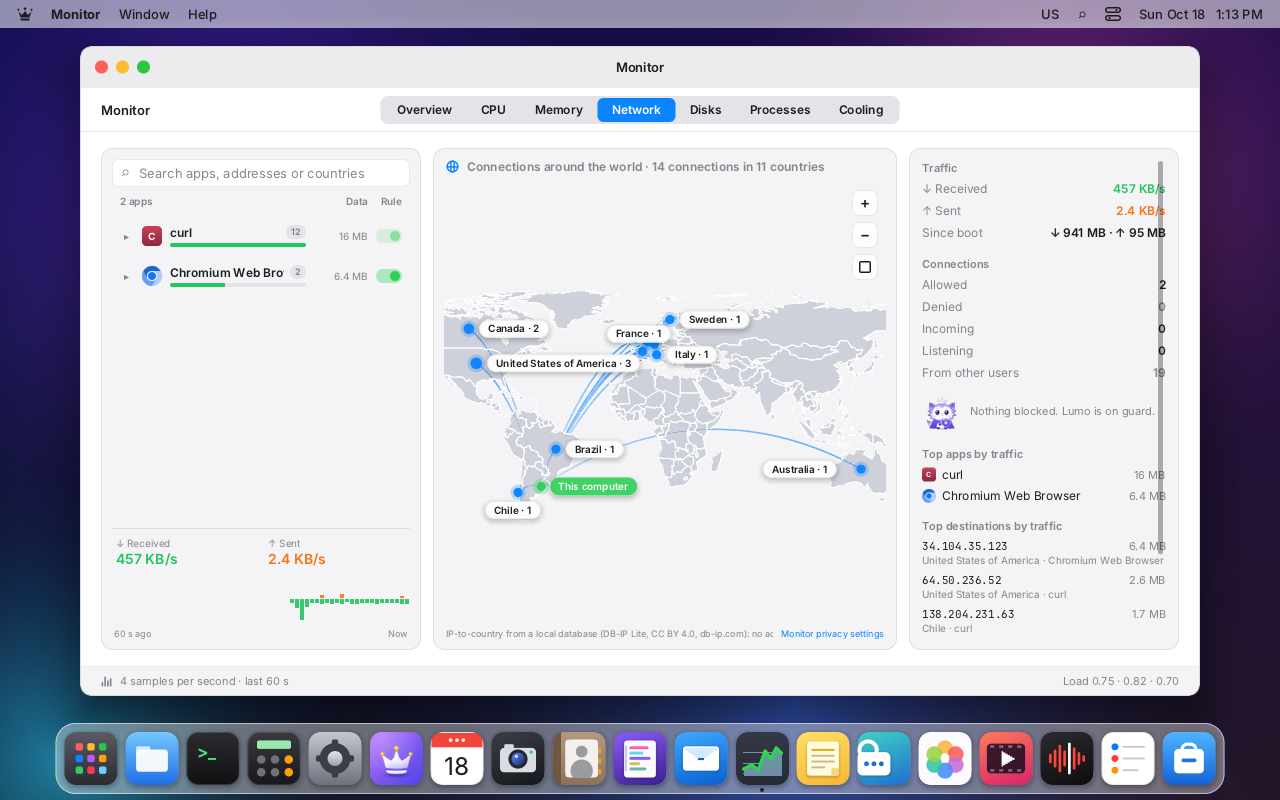
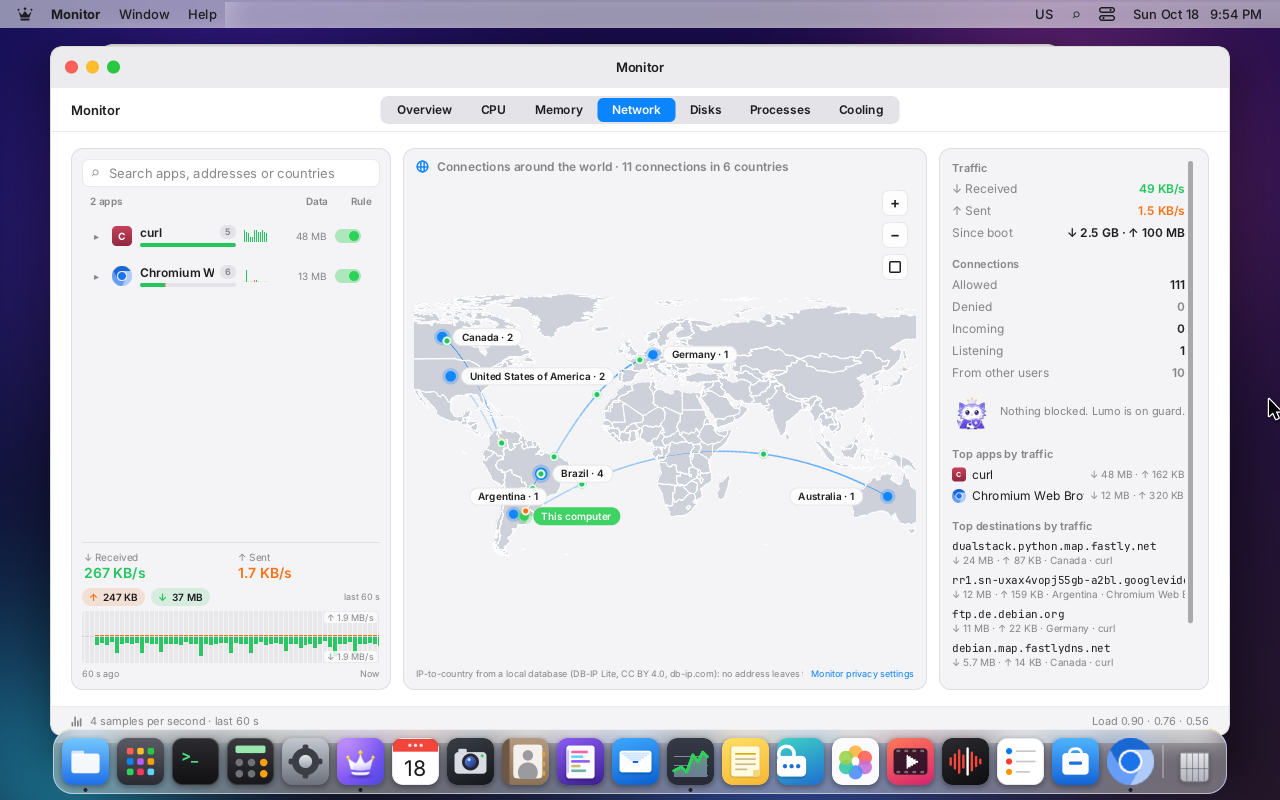
Docs: Monitor network traffic accounting, chart and map, with measurements and screenshots

diff --git a/docs/MONITOR.md b/docs/MONITOR.md
@@ -28,11 +28,19 @@ itself.
 
 - **Left:** search (by app, address or country) and one row per app with its icon, number of
   connections, a traffic bar (received in green, sent in orange, relative to the app that moved
-  the most), the bytes and the **Rule** column: a per-app allow/deny switch that `lord-netperm`
+  the most), a tiny live activity indicator (its traffic over the last 12 s, one bar per second),
+  the bytes and the **Rule** column: a per-app allow/deny switch that `lord-netperm`
   enforces in the kernel (see "Phase 2"). Each app expands to show its destinations (IP and country,
   plus the ones the firewall reported recently: "recent connection" or "recently denied"); a click
-  on one selects it in the right panel. At the bottom,
-  the current download and upload speed and per-second bars for the last 60 s.
+  on one selects it in the right panel. At the bottom, the machine's traffic:
+  - the current download and upload speed;
+  - two pills with what was sent (↑, orange) and received (↓, green) in the visible minute;
+  - a **mirrored chart** of the last 60 s (`TrafficChart.jsx`, `drawMirror` in `draw.js`): one bar
+    per second, sent above the baseline and received below, every bar on a faint full-height track
+    so the strip reads as one continuous chart even when idle; the newest second grows in from the
+    right edge while the rest slides left, redrawn at the 4 samples per second with the window in
+    front (once per second behind it). Auto-scaled to a "nice" maximum shown at both ends; any
+    bucket that moved bytes is at least one pixel tall.
 - **Center:** the map fills the whole height of the column. It has an arc from "This computer" to
   each country, one dot per country (bigger the more connections) and pill labels with the name
   and the count. It's controlled like this:
@@ -47,15 +55,28 @@ itself.
   When zoomed in, the borders and names of the other countries show. The Lite base has no cities,
   so labels are always countries.
 
+  **Direction of the traffic.** While bytes move, dots travel along each arc: sent (orange) from
+  "This computer" to the place, received (green) back. The higher the rate, the more dots (1 to 4
+  each way) and the faster they go (3.4 s to 1 s per trip, on a log scale from 256 B/s to about
+  4 MB/s). An idle arc has no dots and is drawn dimmed (`idle` in the map request, `map.c`). The
+  dots are engine views moved with `lord.setStyle`, no React render per frame: 12 frames per
+  second with the window in front, 5 behind it, at most the 12 busiest arcs and only those on
+  screen; the timer stops with the window minimized, while the map is being moved and when nothing
+  moves. With Appearance → Reduce motion, each busy arc shows two still markers instead: a short
+  comet of three dots, the biggest in front, pointing the way the bytes go.
+
   When an app is chosen, the map shows only its places and frames them. A click on a dot or an arc
   chooses that country: the right panel shows its apps, addresses, ports and bytes. At the bottom,
   a line with the DB-IP attribution and the link to the privacy settings.
-- **Right:**
+- **Right** (its scroll area keeps an 11 px strip for the scroll bar, `ScrollView gutter`, so the
+  bar never covers a value; long values wrap):
   - no selection: traffic (current and since boot), allowed and denied connections (0: there are
     no rules yet), incoming, listening and from other users, and the apps and destinations with the
-    most traffic;
+    most traffic, each with "↓ received · ↑ sent" (destinations by the name the resolver gave,
+    when known);
   - with an app chosen: executable path, user, PIDs, rule, a "Rules for this app" link (Settings
-    → Privacy with that app open), bytes and speed, ports and protocols, listening ports and
+    → Privacy with that app open), bytes and speed with the app's own mirrored chart of the last
+    minute (one bar per second), ports and protocols, listening ports and
     addresses. A selected address offers **Allow / Block this domain** (or "this address" when no
     name is known) for that app: a sheet prefilled with the destination (see `FIREWALL.md`, "Rules
     by app");
@@ -71,7 +92,8 @@ server, and this app's rule is that no address leaves the machine.
 
 ```
 apps/monitor/            index.jsx (tabs), Network.jsx (Network), MapView.jsx (map), Chart.jsx,
-                         draw.js (pixels), icons.jsx, Privacy.jsx, countries.js (generated)
+                         TrafficChart.jsx (mirrored sent/received chart), draw.js (pixels),
+                         icons.jsx, Privacy.jsx, countries.js (generated)
 sdk/monitor.js           useMonitor(), stores monitorSamples / monitorProcesses / monitorConnections
 server/src/ui/js_monitor.c   lord.monitor (read-only, validated API)
 server/src/monitor/mon.c     sampling thread: /proc, /sys, processes
@@ -119,6 +141,17 @@ No function takes paths or commands: the only arguments are booleans and a langu
 `conn.c` does the same as `ss`: a `NETLINK_SOCK_DIAG` dump for TCP and UDP, IPv4 and IPv6, with
 `INET_DIAG_INFO` (`tcpi_bytes_acked` and `tcpi_bytes_received` come from `tcp_info`). No root
 needed. For other users' sockets, only how many there are is counted.
+
+**Bytes per app (0.8.1).** `tcp_info` only exists for TCP and only while the socket is open, so up
+to 0.8.0 UDP — and with it QUIC: HTTP/3, a browser playing a video — counted nothing, and a closed
+connection took its bytes with it (a browser streaming music showed 13 KB). With `lord-netperm`
+running, the bytes and rates of each app and of each of its addresses come from the kernel instead:
+its `cgroup_skb` programs count every packet of the app's sockets, TCP and UDP, both directions
+(`FIREWALL.md`, "Traffic accounting"), and its `COUNTS` notice brings, every second, the app's
+totals since its scope appeared, its rates over the last second and its 64 busiest addresses
+(`lord.fw.poll()`, `firewallState.counts`). An address whose socket already closed keeps its bytes
+and its country (remembered from the last open connection to it). Without `lord-netperm` (or with
+`STATUS` `bytes: false`) the Monitor falls back to `tcp_info`.
 
 The owning process of each of the user's sockets comes from `/proc/<pid>/fd` (`socket:[inode]`) of
 the user's own processes. That walk is the most expensive part, so there is an inode → pid cache
@@ -262,6 +295,32 @@ measurement there were 13 downloads in progress and Firefox open on the Network 
   - In Overview, most of it is repainting the box that holds the four charts (the engine uses a
     single damaged region per frame, about 12 ms) and drawing the charts in JS (around 1.5 %).
 
+### 0.8.1: traffic accounting, chart and moving dots (VM 118)
+
+VM 118: 4 vCPU Xeon Silver 4108 at 1.8 GHz, `virtio_gpu` without 3D, CPU compositing, 1280×800.
+Network tab in front, five downloads running (one over HTTP/3), arcs to 4–6 countries.
+`lord-server` (whole process, % of one core), 3 × 30 s each:
+
+| Build | Runs | Mean |
+|---|---|---|
+| 0.8.0 theme (bars redrawn once per second, no animation) | 5.2 / 6.0 / 8.2 % | 6.5 % |
+| 0.8.1, Reduce motion (chart at 4 Hz, still markers) | 8.9 / 9.4 % | 9.2 % |
+| 0.8.1, dots moving at 12 frames per second | 11.7 / 12.7 / 13.1 % | 12.5 % |
+| 0.8.1, window minimized | 2.0 % | |
+
+- **The chart** (redrawn 4 times per second with the window in front) costs about 2.5 points; behind
+  other windows it drops to once per second.
+- **The moving dots** cost about 0.3 points per frame per second (5 fps: 10.1 %, 15 fps:
+  13.6 %): each frame repaints the box around all the dots, which with arcs across the world is
+  most of the map. 12 fps is the compromise; the engine has one damaged rectangle per frame, so
+  several small rectangles would cut this further (future work).
+- An `lord.setStyle` that only moves an absolutely positioned node (the dots, the map image while
+  panning) now just places it again instead of remeasuring every ancestor (`js.c`, like a window
+  drag); it made no measurable difference here because painting dominates.
+- **`lord-netperm`** stays at 0.0–0.07 % with traffic flowing (one map read per app per second,
+  plus one batch read of the address table only while bytes move).
+- **The kernel side** of the accounting is in `FIREWALL.md` ("Measurements").
+
 ### Map
 
 Time for an 800×560 frame on the map thread (`build/map-bench`):
@@ -281,6 +340,18 @@ It runs outside the frame. While it draws, the screen shows the previous frame s
   - The whole `build/mmdb-test`, which includes that load and 400 broken files, takes 0.5 s in the
     VM.
 - **Lookup:** each one walks at most 128 nodes.
+
+## Screenshots (0.8.1, VM 118, real traffic: a browser on a video site over QUIC and five downloads)
+
+- Network, dark and light: ![dark](monitor-network-dark.png) ![light](monitor-network-light.png)
+- The browser chosen (detail panel, its own chart): ![dark](monitor-network-detail-dark.png)
+  ![light](monitor-network-detail-light.png)
+- The map with traffic moving (a still frame): ![map](monitor-network-map-flow.png); with Reduce
+  motion: ![still](monitor-network-map-still.png)
+- Minimum window size in Spanish (the longest values go on their own line):
+  ![es](monitor-network-min-es.png); right to left (Arabic): ![rtl](monitor-network-rtl.png)
+- Before the fix (0.8.0, Spanish): a 400 KB/s HTTP/3 download shows "—" and "0 B":
+  ![before](monitor-network-before.png)
 
 ## Screenshots (VM 123)
 

diff --git a/CHANGELOG.md b/CHANGELOG.md
@@ -20,6 +20,19 @@ of the matching [GitHub release](https://github.com/lordbasex/LordOS/releases), 
   drop-in shipped by the `lordos` package). The Raspberry Pi image's `ssh` switch file keeps
   working and shows up as on ([docs/REMOTE.md](docs/REMOTE.md#remote-login-ssh)).
 
+### Changed
+
+- **Monitor → Network: a fluid traffic chart.** The sparse per-second bars are now a continuous
+  mirrored strip for the last 60 s: sent above the baseline, received below, one bar per second on
+  a faint track, scrolling smoothly at 4 samples per second, auto-scaled, with the minute's totals
+  as pills. The selected app gets the same chart, each app row a small live activity indicator, and
+  the summary shows "↓ received · ↑ sent" per app and destination
+  ([docs/MONITOR.md](docs/MONITOR.md#network)).
+- **Monitor → Network: the map shows which way the traffic flows.** Dots travel along each arc,
+  sent from "This computer" to the place and received back, more and faster with the rate; idle
+  arcs are dimmed. Reduce motion shows still markers instead; the animation runs at 12 frames per
+  second, only on screen, and stops when the window is minimized.
+
 ### Fixed
 
 - **The menu bar names a Linux app, not its window.** Next to the crown it showed the window title
@@ -33,6 +46,17 @@ of the matching [GitHub release](https://github.com/lordbasex/LordOS/releases), 
   kept playing. Imports now belong to one context and are made again, windows keep
   their last frame while the session is off the monitor, and apps get the new dmabuf formats
   ([docs/GPU.md](docs/GPU.md#when-the-gpu-context-is-re-created)).
+- **Monitor → Network counts all of an app's traffic, UDP and QUIC included.** Per-app bytes came
+  only from the TCP sockets open at that moment, so UDP — and with it QUIC: HTTP/3, a browser
+  playing a video — counted nothing, and a closed connection took its bytes with it (a browser
+  streaming music showed 13 KB). `lord-netperm` now counts every packet of each app's sockets in
+  the kernel (two `cgroup_skb` programs, both directions, loopback excluded) and sends bytes and
+  rates per app and per address every second: 98.7–98.8 % of the interface's counters in the
+  tests (an HTTP/3 download, a browser on a video site), about 0.5 µs per packet and no measurable
+  cost on TCP ([docs/FIREWALL.md](docs/FIREWALL.md#the-programs)).
+- **The Network tab's detail panel no longer hides values under its scroll bar.** The panel keeps
+  a strip for the bar, and a label and value that don't fit on one line go on two instead of
+  running over the next row (es/en/pt, right to left, minimum window size).
 
 ## [0.8.0-beta] - 2026-10-18
 

diff --git a/docs/VM-SETUP.md b/docs/VM-SETUP.md
@@ -1124,3 +1124,21 @@ See `REMOTE.md`, "Remote login (SSH)". Tree in `~/LordOS-ssh` (sent with `tar`),
   saved `lord-server`, themes and assets were restored and `~/LordOS-ssh` deleted.
 - **Side effects:** the VM was rebooted twice (the reboot tests), which ended `bob`'s background
   session; `lord` ends at the login screen. Nothing in the network configuration was touched.
+
+## Step 28 — Monitor → Network: traffic accounting, chart and map (VM 118 `lordos-notes`, October 18)
+
+See `MONITOR.md` and `FIREWALL.md` ("Traffic accounting"). On VM 118 (172.17.0.53), in its own
+folder `~/LordOS-monred`, installed into `/usr/local/lib/lordos` as in step 15 (the previous
+`/usr/local/lib/lordos` was saved in `/var/tmp/lordos-backup-monred` and put back at the end).
+
+- **Installed, tests only:** `iperf3` 3.18 (`apt-get install --no-install-recommends iperf3`; its
+  service stays disabled). For the throughput and CPU measurements a veth pair (`npb0`/`npb1`)
+  into a private network namespace `npb` (`10.213.7.0/30`) was created and deleted afterwards;
+  eth0 and the VM's network configuration weren't touched.
+- **Traffic:** Chromium (already on the VM) on a video site, `curl --http3-only` (Debian's curl
+  8.14 has HTTP/3) and `curl --limit-rate` downloads from Debian mirrors, each run inside an app
+  scope made by hand (`app-lordos-<name>.scope`, as `tests/netperm_integration.sh` does).
+- **Screenshots** with `screendump` from the Proxmox host; the pointer with
+  `lord-qmp-input.py 118 2987 1067` (the VM has two heads, see "Several displays").
+- The session language, theme and accent were changed for the screenshots and restored from
+  `~/.config-lordos-backup-monred` afterwards.
